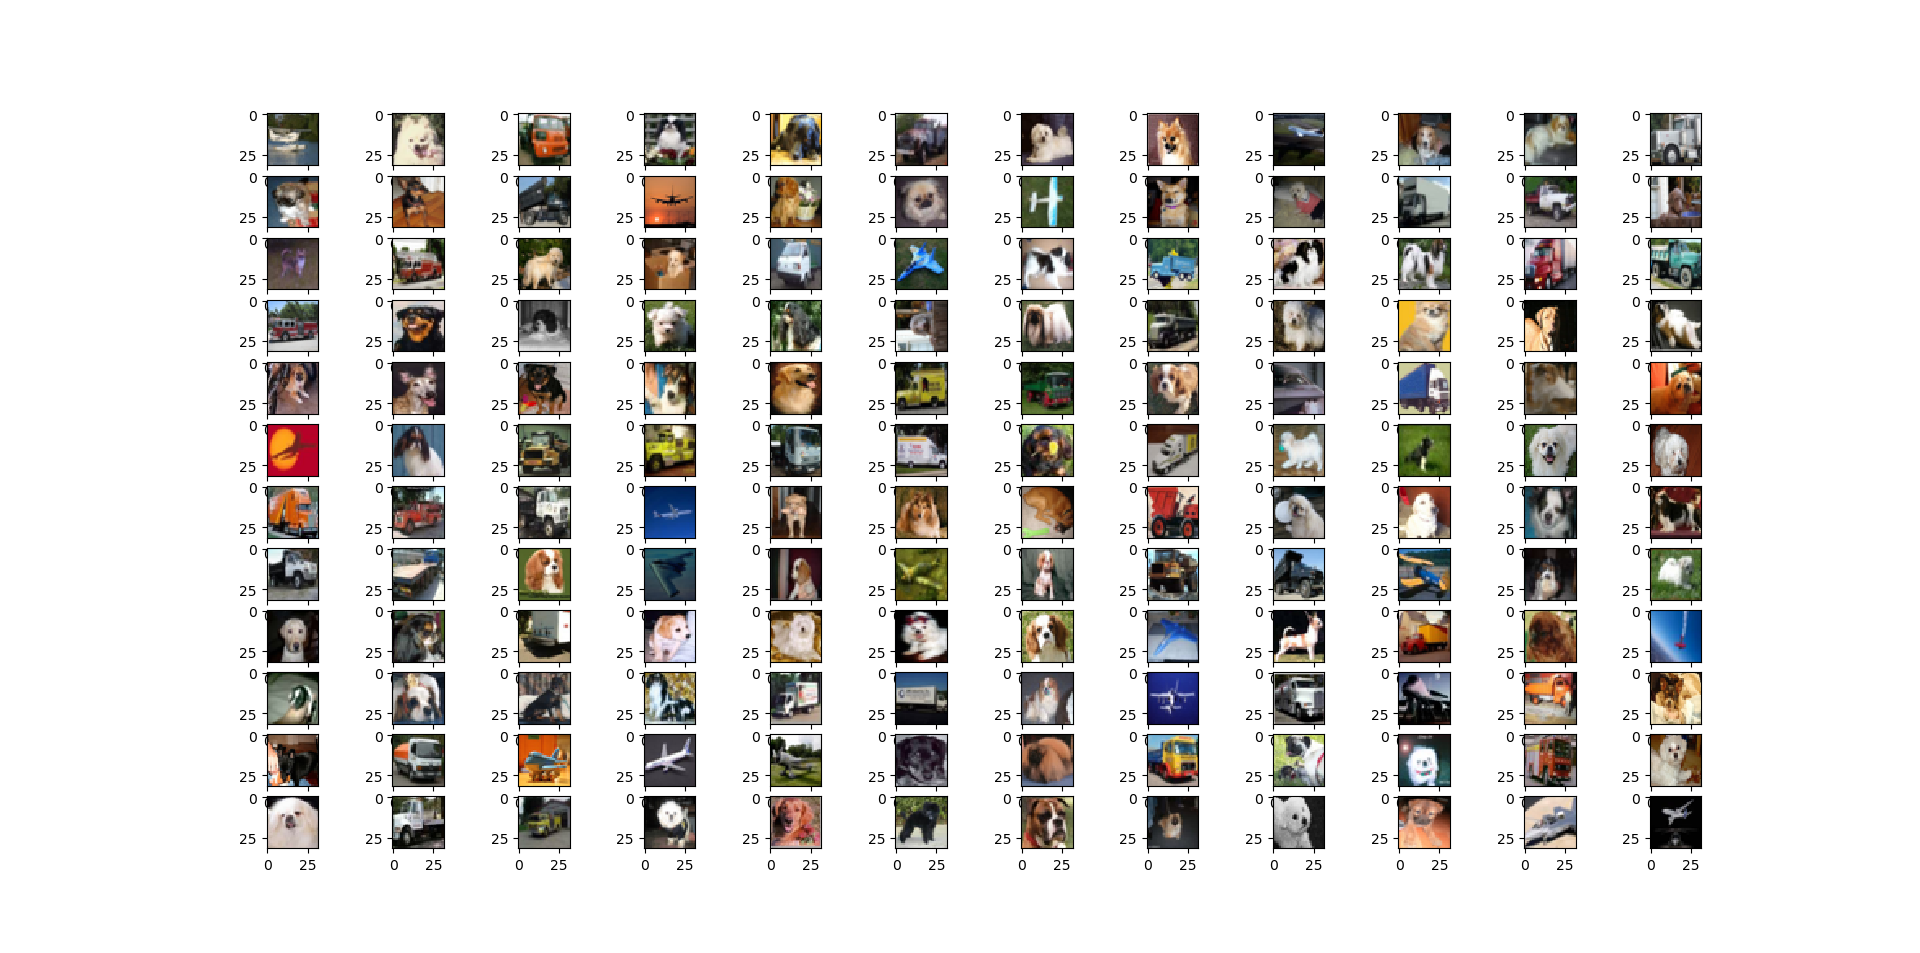
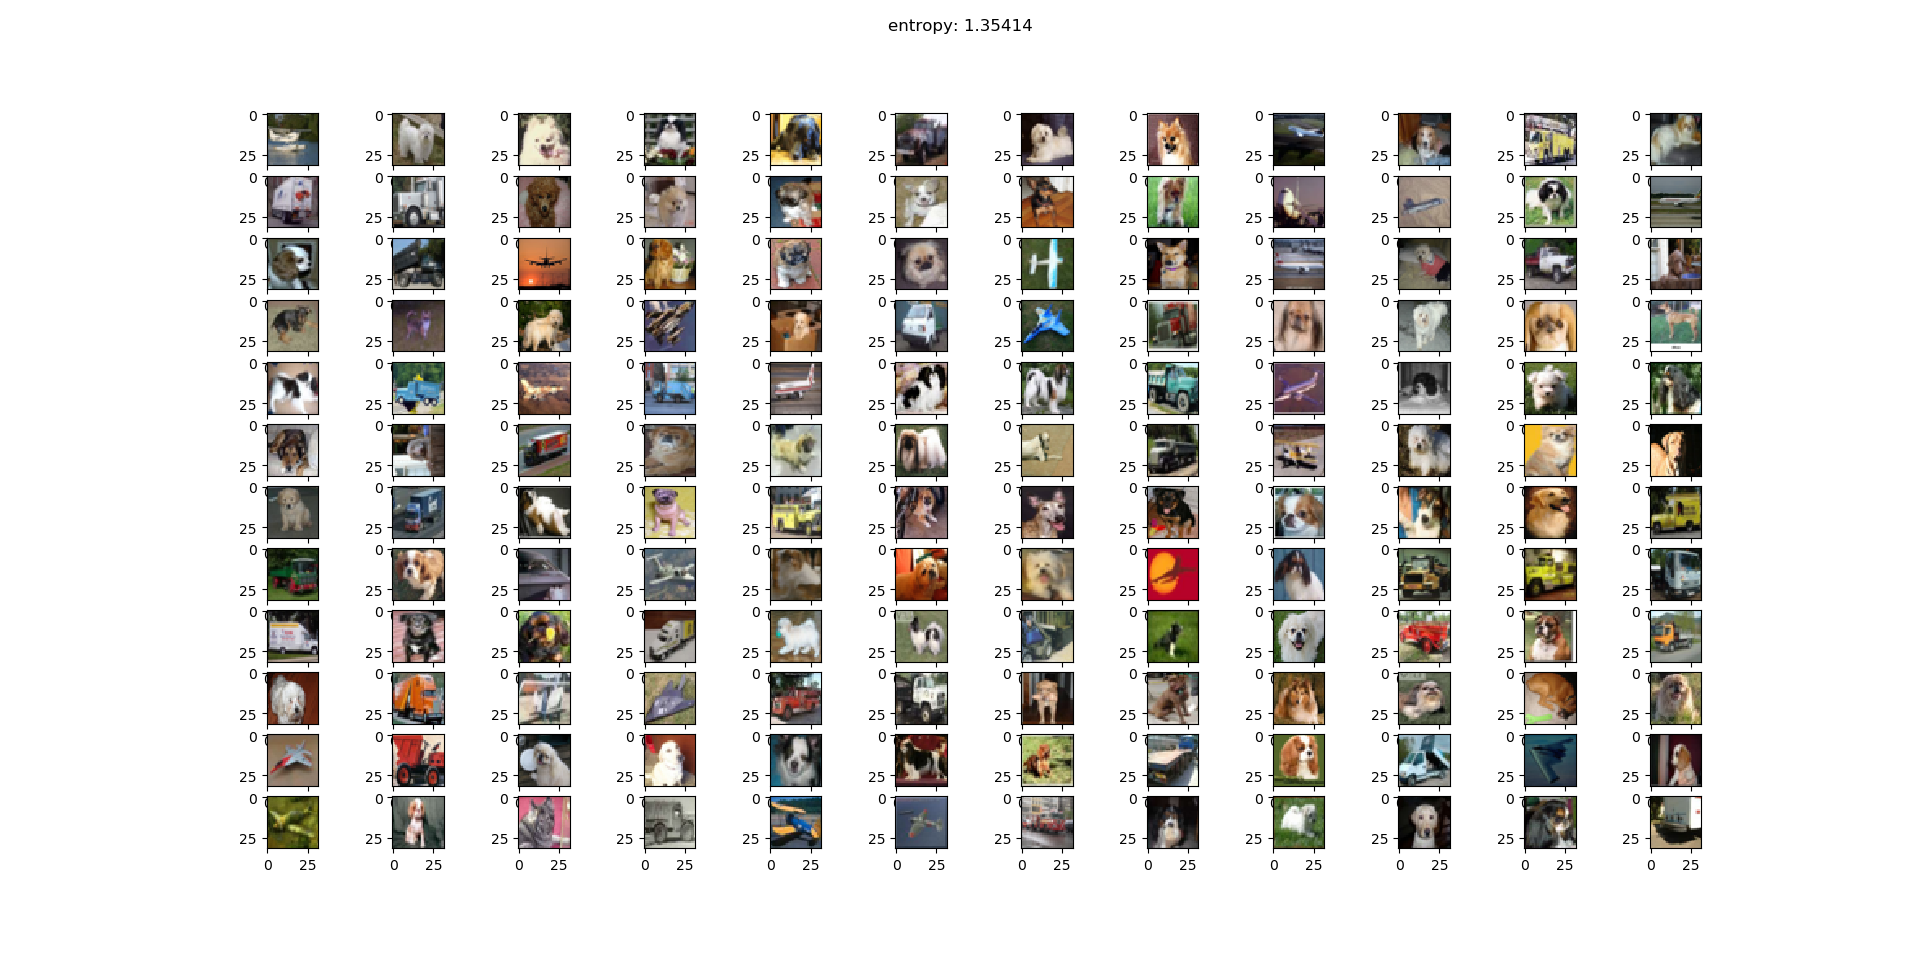
calc. entropy, explain in README

diff --git a/k-means-classification/clustering.py b/k-means-classification/clustering.py
@@ -4,6 +4,7 @@ import numpy as np
 import matplotlib.pyplot as plt
 from tqdm import tqdm
 from scipy.stats import entropy
+import math
 
 
 class KMeans:
@@ -104,7 +105,12 @@ class KMeans:
                     break
 
         print("class-distributions:", class_distributions)
-        print("entropy:", entropy(class_distributions))
+
+        # calculate entropy
+        class_probabilities = np.array(class_distributions) / sum(class_distributions)
+        entropy = - sum(class_probabilities * (np.log(class_probabilities) / np.log(2)))
+
+        print("entropy:", entropy)
 
         cluster = cluster[:144]
         fig, axs = plt.subplots(12, 12)
@@ -114,9 +120,12 @@ class KMeans:
                 axs[i][j].imshow(self.images[cluster[counter]][0])
                 counter += 1
 
+        fig.suptitle("entropy: " + str(round(entropy, 5)))
         plt.show()
 
 kMeans = KMeans(dataset_path="dataset/train_bottlenecks.npy", train_images_path="../autoencoder/datasets/train_dataset.npy", classes=3)
-clusters = kMeans.cluster(steps=10)
+clusters = kMeans.cluster(steps=15)
 
+kMeans.supervise_cluster(clusters=clusters, c=0)
+kMeans.supervise_cluster(clusters=clusters, c=1)
 kMeans.supervise_cluster(clusters=clusters, c=2)

diff --git a/README.md b/README.md
@@ -13,13 +13,29 @@ The autoencoder was trained to reproduce images out of 3 classes from the CIFAR-
 After training, the train-dataset was passed through the model again in evaluation mode and the bottleneck layers were saved.
 
 ### [k-means-classification/](k-means-classification/):
-K-means clustering was applied on the bottleneck-datapoints with K=3, since the amount of classes was known.
+K-means clustering was applied on the bottleneck-datapoints with K=3, since the amount of classes was fixed.
 
 ## | results:
-![dog_cluster](readme_images/mainly_dog_cluster.png)
-![plane_cluster](readme_images/mainly_plane_cluster.png)
 
-The first image shows a cluster which has many dogs, the second a cluster with mainly planes.
+To measure the performance of the clustering, you can calculate the entropy of each cluster. We want every cluster to show (in the perfect case) just one class, therefore the better the clustering the lower the entropy.
+
+<p align="center"> 
+<img src="readme_images/entropy.png">
+</p>
+
+### examples cluster:
+<details>
+<summary>Click to see the clusters</summary>
+
+![plane_cluster](readme_images/mainly_plane_cluster.png)
+![dog_cluster](readme_images/mainly_dog_cluster.png)
+![truck_cluster](readme_images/mainly_truck_cluster.png)
+
+</details>
+
+- the first image shows a cluster with mainly planes (lower entropy)
+- the second image shows a cluster with most amount of dogs (higher entropy)
+- the third image shows a cluster with most amount of trucks (higher entropy)
 
 After training different autoencoders and clustering, it seemed that images where mostly clustered by their colors and less by their objects. Therefore a "plane"-cluster shows more accurate results because the images often have a bright-blue or white background.
 
